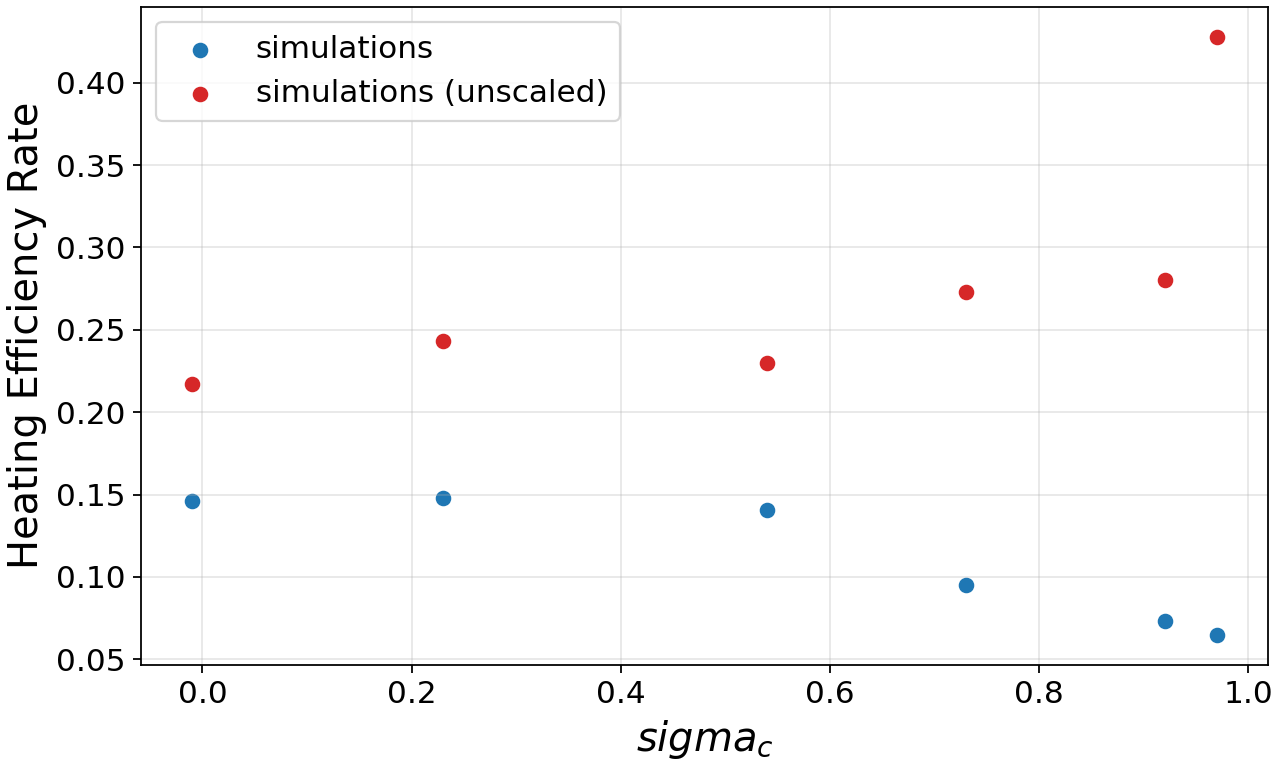
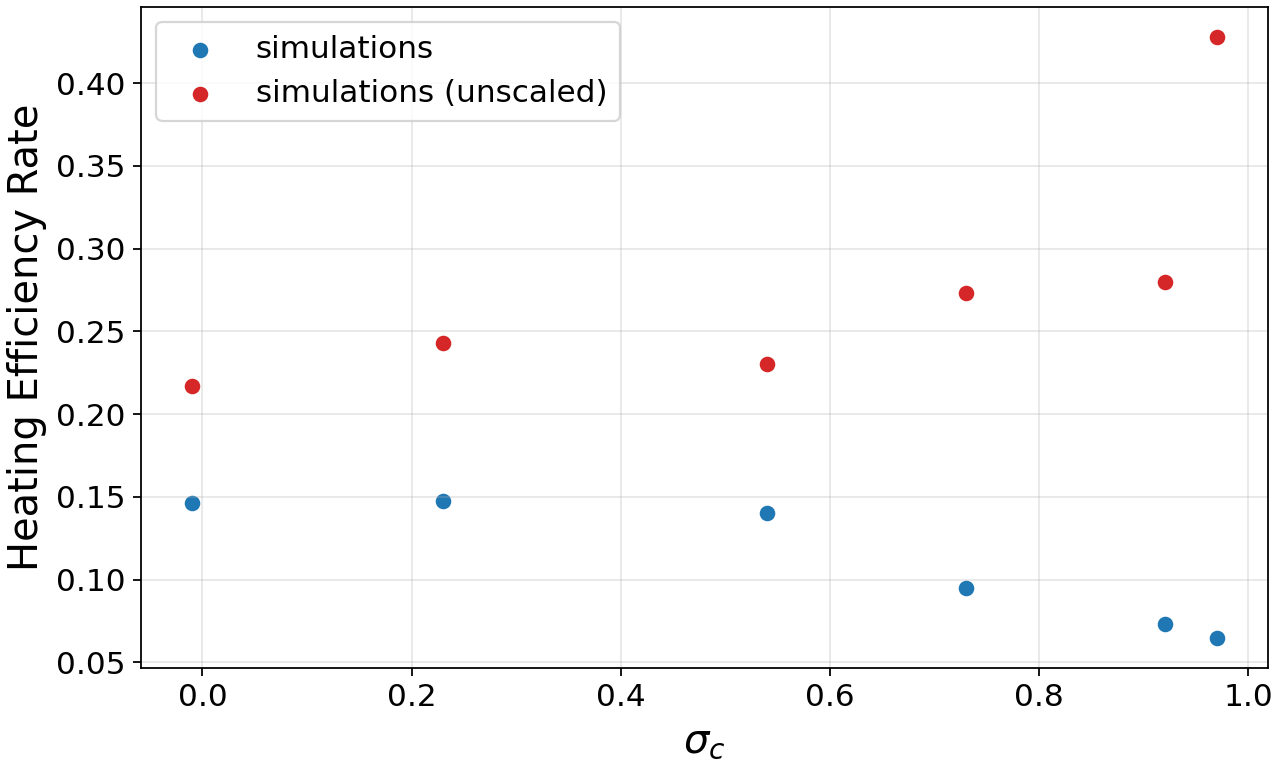
another diagnositc

diff --git a/vis/plot_scalars_exp_imb.py b/vis/plot_scalars_exp_imb.py
@@ -102,7 +102,7 @@ def main(argv: list[str] | None = None) -> Path:
     uparE= columns["upar_energy"] 
     dbparE= columns["dbpar_energy"]
     Epar= uparE + dbparE
-    Eupar= Epar / (1.0 + alpha**2) 
+    Eupar= Epar / (1.0 + alpha**2 *1.11**2/0.90**2) 
     Edbpar= Epar - Eupar
 
     dbscaled= alpha**2 *uparE
@@ -116,7 +116,7 @@ def main(argv: list[str] | None = None) -> Path:
         raise SystemExit(f"Unknown scalar columns requested: {unknown}.")
 
     output_path = (
-        csv_path.with_name("scalar_diagnostics_beta_imb.png")
+        csv_path.with_name("scalar_diagnostics_beta_exp_imb.png")
         if args.output is None
         else Path(args.output).expanduser().resolve()
     )
@@ -136,6 +136,11 @@ def main(argv: list[str] | None = None) -> Path:
     #ax.plot(time, dbscaled, lw=3, ls= "--", color= "black", label=r"$\delta$dpar scaled from $\delta$upar")
     ax.plot(time, Eupar, lw=3, ls= "--", color= "tab:green", label=r"$\delta u_{\parallel}$ scaled")
     ax.plot(time, Edbpar, lw=3, ls= "--", color= "tab:blue", label=r"$\delta b_{\parallel}$ scaled")
+
+    uexp= 0.71**2 * 1/4 
+    bexp= 0.71**2 * 1/16 * 1.11**2/0.90**2 
+    ax.axhline(y=uexp, color="tab:green", linestyle=":", linewidth=2, label=r"$\delta u_{\parallel}$ expected")
+    ax.axhline(y=bexp, color="tab:blue", linestyle=":", linewidth=2, label=r"$\delta b_{\parallel}$ expected")
 
     ax.set_xlabel(r"Time / $\tau_A$", fontsize=18)
     ax.set_ylabel("Energy Density", fontsize=18)

diff --git a/vis/plot_chiA_rates.py b/vis/plot_chiA_rates.py
@@ -25,8 +25,8 @@ ax.scatter(chi_A, e_plus, label= "simulations", color= "tab:blue")
 ax.scatter(chi_A, rate, label= "simulations (unscaled)", color= "tab:red")
 ax.set_xlabel(r"$\chi_A$", fontsize=18)
 ax.set_ylabel(r"Heating Efficiency Rate", fontsize=18)
-ax.set_ylim(0, 0.3)
-ax.set_xlim(0, 10)
+# ax.set_ylim(0, 0.3)
+# ax.set_xlim(0, 10)
 ax.tick_params(axis="both", labelsize=14)
 ax.legend(fontsize=14)
 ax.grid(True, alpha=0.3)

diff --git a/vis/plot_imb_rates.py b/vis/plot_imb_rates.py
@@ -31,7 +31,7 @@ fig, ax = plt.subplots(figsize=(8, 4.8), constrained_layout=True)
   
 ax.scatter(ch, e_plus, label= "simulations", color= "tab:blue")
 ax.scatter(ch, num_rate, label= "simulations (unscaled)", color= "tab:red")
-ax.set_xlabel(r"$sigma_c$", fontsize=18)
+ax.set_xlabel(r"$\sigma_c$", fontsize=18)
 ax.set_ylabel(r"Heating Efficiency Rate", fontsize=18)
 # ax.set_ylim(0, 0.3)
 # ax.set_xlim(0, 10)

diff --git a/vis/plot_scalars_beta_imb.py b/vis/plot_scalars_beta_imb.py
@@ -116,7 +116,7 @@ def main(argv: list[str] | None = None) -> Path:
         raise SystemExit(f"Unknown scalar columns requested: {unknown}.")
 
     output_path = (
-        csv_path.with_name("scalar_diagnostics_beta_imb.png")
+        csv_path.with_name("scalar_diagnostics_beta.png")
         if args.output is None
         else Path(args.output).expanduser().resolve()
     )
